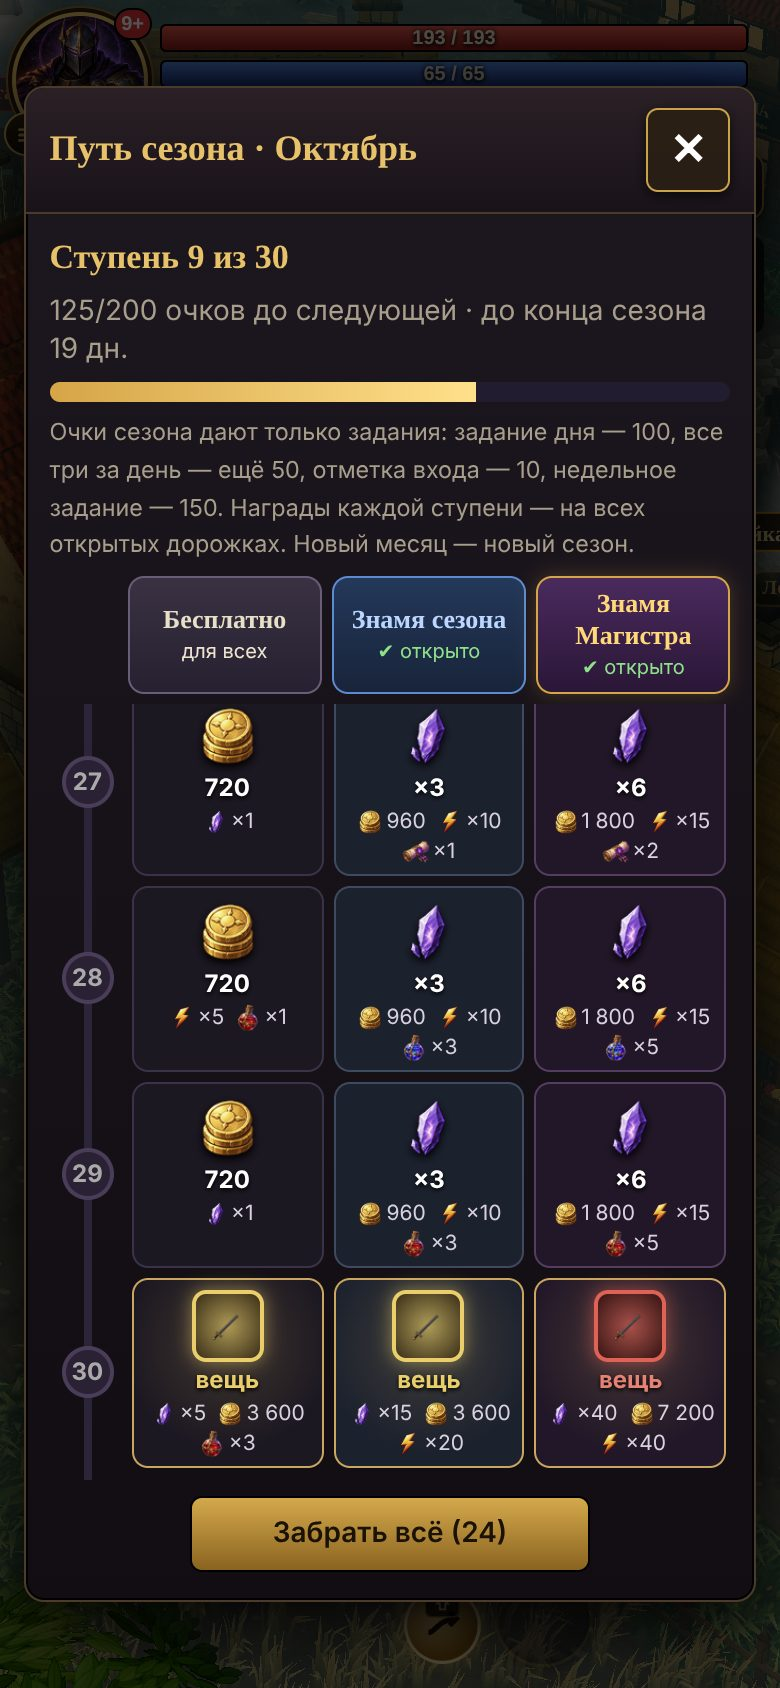
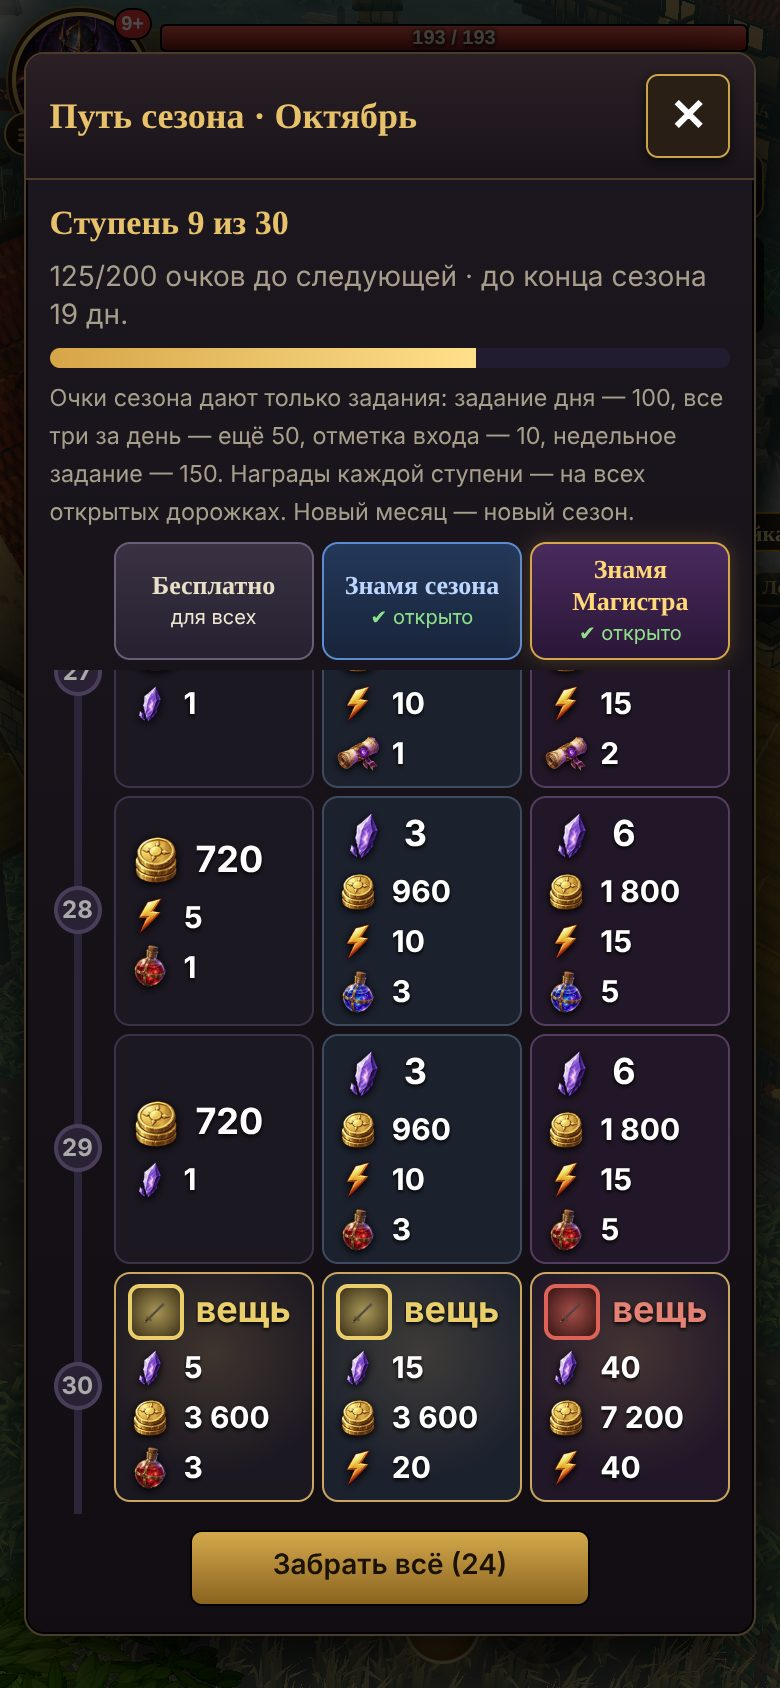
Пропуск: в клетке значок слева и число крупно рядом, на ПК награды в два столбца
Claude-Session: https://claude.ai/code/session_01DAgmLBNGFsvxryutS51gR7

Changed region(s): [[0.0308, 0.0308, 0.9846, 0.9858], [0.9231, 0.955, 0.9538, 0.9858]]

diff --git a/css/style.css b/css/style.css
@@ -620,41 +620,39 @@ canvas#game{filter:saturate(1.22) contrast(1.08) brightness(1.06)}
 .season-list .sl.mid{border-color:#4a7ab8}.season-list .sl.big{border-color:#d6a548;background:#3a2c12}
 .season-list .sl.open{box-shadow:0 0 8px #d6a54866}.season-list .sl.got{opacity:.5}
 /* сборка 68: пропуск сезона в три дорожки — бесплатная / Знамя сезона / Знамя Магистра */
-.pass-head,.pass-row{display:grid;grid-template-columns:34px repeat(3,minmax(0,1fr));gap:5px}
+.pass-head,.pass-row{display:grid;grid-template-columns:28px repeat(3,minmax(0,1fr));gap:4px}
 .pass-head{margin:4px 0 5px}
 .pass-head .ph{display:flex;flex-direction:column;align-items:center;justify-content:center;gap:3px;padding:5px 3px;border-radius:8px;text-align:center;font-size:12px;line-height:1.15;min-height:54px}
 .pass-head .ph b{font:600 13px Georgia}.pass-head .ph .btn{padding:3px 8px;min-height:0;font-size:12px}
 .ph.free{background:linear-gradient(#3a3242,#262030);border:1px solid #6a5d78}.ph.free b{color:#e8dfc8}
 .ph.mid{background:linear-gradient(#24385a,#18243a);border:1px solid #5b8bd0}.ph.mid b{color:#bcd6ff}
 .ph.ult{background:linear-gradient(#4a2a5e,#2a1636);border:1px solid #d6a548;box-shadow:0 0 10px #d6a54840}.ph.ult b{color:#ffd877}
-.pass-list{display:flex;flex-direction:column;gap:5px;max-height:46vh;overflow:auto;padding:2px 2px 4px}
+.pass-list{display:flex;flex-direction:column;gap:4px;max-height:50vh;overflow:auto;padding:2px 0 4px}
 .pass-row .pr-lv{display:flex;align-items:center;justify-content:center;position:relative}
 .pass-row .pr-lv:before{content:'';position:absolute;top:-6px;bottom:-6px;width:4px;background:#2c2438;left:50%;transform:translateX(-50%)}
 .pass-row.reached .pr-lv:before{background:#d6a548}
-.pass-row .pr-lv i{position:relative;font-style:normal;font-weight:700;font-size:12px;width:26px;height:26px;border-radius:50%;display:flex;align-items:center;justify-content:center;background:#2a2234;border:2px solid #4a3d5a;color:#aaa}
+.pass-row .pr-lv i{position:relative;font-style:normal;font-weight:700;font-size:12px;width:24px;height:24px;border-radius:50%;display:flex;align-items:center;justify-content:center;background:#2a2234;border:2px solid #4a3d5a;color:#aaa}
 .pass-row.reached .pr-lv i{background:#5a4214;border-color:#ffd877;color:#fff}
 .pass-row.next .pr-lv i{border-color:#ffd877;color:#ffd877}
-.pc{position:relative;border-radius:8px;padding:5px 3px 4px;display:flex;flex-direction:column;align-items:center;gap:3px;cursor:pointer;min-height:76px;background:#1c1724;border:1px solid #3a3150;user-select:none}
+.pc{position:relative;border-radius:8px;padding:5px 6px;display:grid;grid-template-columns:repeat(auto-fill,minmax(84px,1fr));align-content:center;gap:3px 8px;cursor:pointer;background:#1c1724;border:1px solid #3a3150;user-select:none}
 .pc.t-mid{background:#1a2132;border-color:#3a4a68}.pc.t-ult{background:#24162c;border-color:#5a3a6a}
 .pc.lv-mid{border-color:#5b8bd0}.pc.lv-big{border-color:#d6a548;background-image:radial-gradient(circle at 50% 35%,#d6a54833,transparent 70%)}
-.pc-main{display:flex;flex-direction:column;align-items:center;line-height:1}
-.pc-main img{width:34px;height:34px;object-fit:contain;filter:drop-shadow(0 2px 2px #000)}
-.pc-main span{font:700 12px system-ui,sans-serif;color:#fff;text-shadow:0 1px 2px #000;margin-top:1px}
-.pc-main[class*=" r"] img{width:36px;height:36px;padding:2px;border-radius:7px;border:2px solid;filter:none}
-.pc-main.r2 img{background:radial-gradient(#6ea8ff99,#16243e);border-color:#6ea8ff;box-shadow:0 0 8px #6ea8ff88}.pc-main.r2 span{color:#8fbcff}
-.pc-main.r3 img{background:radial-gradient(#f2cf4aaa,#3e2e10);border-color:#f2cf4a;box-shadow:0 0 9px #f2cf4a88}.pc-main.r3 span{color:#f2cf4a}
-.pc-main.r4 img{background:radial-gradient(#ff5a4aaa,#3e1210);border-color:#ff5a4a;box-shadow:0 0 10px #ff5a4a99}.pc-main.r4 span{color:#ff7a6a}
-.pc-more{display:flex;flex-wrap:wrap;justify-content:center;gap:1px 5px;font-size:10.5px;color:#d8d0e4;line-height:1.2}
-.pc-more span{display:inline-flex;align-items:center;gap:1px;white-space:nowrap}
-.pc-more img{width:14px;height:14px;object-fit:contain}
-.pc.locked .pc-main,.pc.locked .pc-more{opacity:.55}
-.pc-lk{position:absolute;top:2px;right:3px;font-style:normal;font-size:11px}
-.pc.got{opacity:.45}.pc-ok{position:absolute;inset:0;display:flex;align-items:center;justify-content:center;font-style:normal;font-size:26px;color:#7be07b;text-shadow:0 0 6px #000}
+.pc-it{display:flex;align-items:center;gap:6px;line-height:1;min-width:0}
+.pc-it img{width:22px;height:22px;flex:none;object-fit:contain;filter:drop-shadow(0 1px 2px #000)}
+.pc-it span{font:700 15px system-ui,sans-serif;color:#fff;text-shadow:0 1px 2px #000;white-space:nowrap;overflow:hidden;text-overflow:ellipsis}
+.pc-it.main img{width:28px;height:28px}.pc-it.main span{font-size:18px}
+.pc-it[class*=" r"] img{padding:1px;border-radius:6px;border:2px solid;filter:none}
+.pc-it.r2 img{background:radial-gradient(#6ea8ff99,#16243e);border-color:#6ea8ff}.pc-it.r2 span{color:#8fbcff}
+.pc-it.r3 img{background:radial-gradient(#f2cf4aaa,#3e2e10);border-color:#f2cf4a}.pc-it.r3 span{color:#f2cf4a}
+.pc-it.r4 img{background:radial-gradient(#ff5a4aaa,#3e1210);border-color:#ff5a4a}.pc-it.r4 span{color:#ff7a6a}
+.pc.locked .pc-it{opacity:.6}
+.pc-lk{position:absolute;top:3px;right:4px;font-style:normal;font-size:12px}
+.pc.got{opacity:.45}.pc-ok{position:absolute;inset:0;display:flex;align-items:center;justify-content:center;font-style:normal;font-size:30px;color:#7be07b;text-shadow:0 0 6px #000}
 .pc.can{border-color:#ffd877;box-shadow:0 0 10px #ffd87788,inset 0 0 12px #ffd87733;animation:pcGlow 1.6s ease-in-out infinite}
 @keyframes pcGlow{50%{box-shadow:0 0 16px #ffd877aa,inset 0 0 14px #ffd87755}}
 .pass-row:not(.reached) .pc{filter:saturate(.75)}
 .pass-all{display:block;margin:8px auto 2px;min-width:200px}
-@media (max-height:500px){.pass-list{max-height:40vh}.pc{min-height:64px}.pc-main img{width:28px;height:28px}}
+@media (max-height:500px){.pass-list{max-height:44vh}}
 .codex-grid .mg-c{min-height:26px;cursor:default}
 #goalLine{font:600 11px/1.3 sans-serif;color:#ffe2a0;text-shadow:0 1px 2px #000;margin-top:3px;white-space:nowrap;overflow:hidden;text-overflow:ellipsis;max-width:min(62vw,420px)}/* сборка 59: одной строкой */
 /* «Охота»: таймер до следующей тревоги / активное чудовище */

diff --git a/js/ui/windows.js b/js/ui/windows.js
@@ -717,7 +717,7 @@ function passIcon(r) {
   if (r.k === 'scroll') return iconURL('scroll');
   return iconURL(CLASSES[P.cls || 'warrior'].main);
 }
-function passAmount(r) { const P = G.profile; return r.k === 'gold' ? fmtShort(r.n * P.level) : r.k === 'item' ? 'вещь' : '×' + r.n; }
+function passAmount(r) { const P = G.profile; return r.k === 'gold' ? fmtShort(r.n * P.level) : r.k === 'item' ? 'вещь' : String(r.n); }
 function priceLabel(id) { const pr = platform.p.catalogPrice(id); return !pr ? '' : typeof pr === 'string' ? esc(pr) : `${esc(pr.value)} ${pr.img ? `<img class="cur" src="${esc(pr.img)}" alt="${esc(pr.code)}">` : esc(pr.code)}`; }
 W.season = () => modal('Путь сезона · ' + SE.seasonName(), 'md', b => {
   const L = SE.seasonLevel(), tier = SE.passTier();
@@ -742,10 +742,9 @@ W.season = () => modal('Путь сезона · ' + SE.seasonName(), 'md', b =>
     row.appendChild(el('div', 'pr-lv', `<i>${l}</i>`));
     for (const t of SE.TRACKS) {
       const R = SE.seasonReward(l, t), got = SE.isClaimed(l, t), open = SE.trackOpen(t), can = SE.canClaim(l, t);
-      const [main, ...rest] = R.list;
       const c = el('div', `pc t-${t}${R.big ? ' lv-big' : R.mid ? ' lv-mid' : ''}${got ? ' got' : can ? ' can' : ''}${open ? '' : ' locked'}`,
-        `<div class="pc-main${main.k === 'item' ? ' r' + main.n : ''}"><img src="${passIcon(main)}" alt="" draggable="false"><span>${passAmount(main)}</span></div>` +
-        `<div class="pc-more">${rest.map(r => `<span><img src="${passIcon(r)}" alt="" draggable="false">${passAmount(r)}</span>`).join('')}</div>` +
+        // правка: значок слева, число крупно рядом — строка на каждую награду, клетка во всю ширину
+        R.list.map((r, i) => `<div class="pc-it${i ? '' : ' main'}${r.k === 'item' ? ' r' + r.n : ''}"><img src="${passIcon(r)}" alt="" draggable="false"><span>${passAmount(r)}</span></div>`).join('') +
         (got ? '<em class="pc-ok">✔</em>' : !open ? '<em class="pc-lk">🔒</em>' : ''));
       c.title = R.list.map(SE.rewardLabel).join(', ');
       c.onclick = () => {
